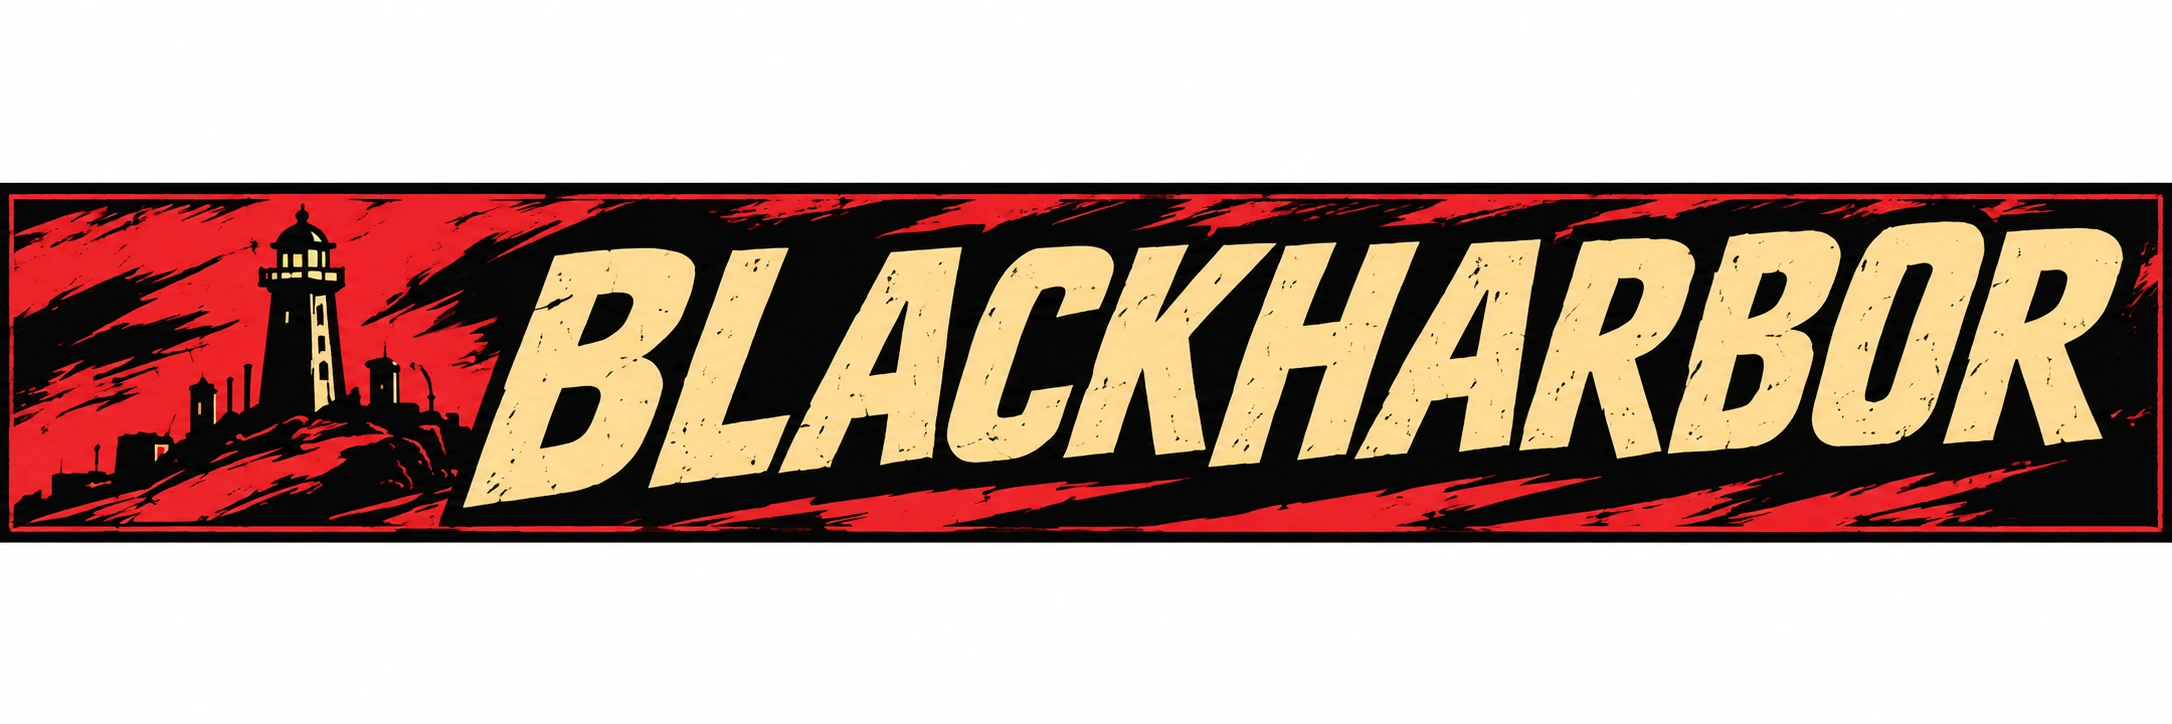
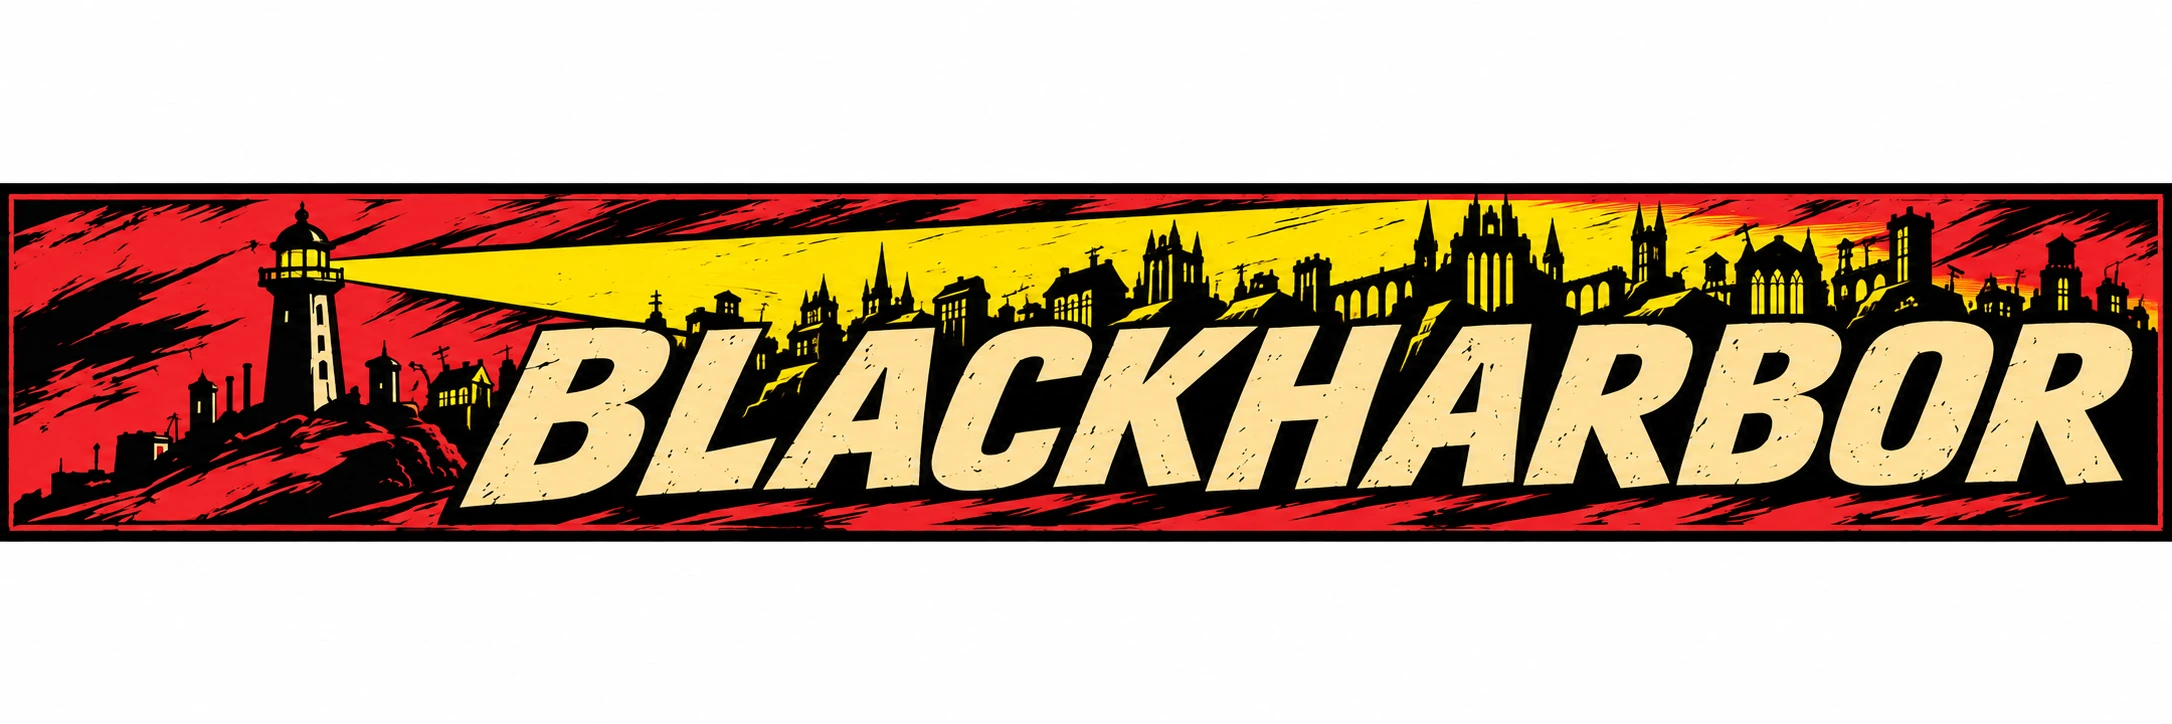
Illuminate a sinister city with the lighthouse masthead beam

Changed region(s): [[0.0, 0.2431, 1.0, 0.7597], [0.0, 0.2431, 0.1234, 0.3343]]

diff --git a/src/ui/render.js b/src/ui/render.js
@@ -6,7 +6,7 @@ function flip(){const b=document.querySelector('.board');if(!b){lastPos={};retur
     if(p&&(p[0]!==x||p[1]!==y)&&!noFlip.has(id)&&!RM){const d=Math.hypot(p[0]-x,p[1]-y);
       e.animate([{transform:`translate(${(p[0]-x)*c}px,${(p[1]-y)*c}px)`},{transform:`translate(${(p[0]-x)*c*.5}px,${(p[1]-y)*c*.5-c*.18}px)`,offset:.5},{transform:'none'}],{duration:Math.min(520,180+90*d),easing:'ease-in-out'})}});
   noFlip.clear();lastPos=now}
-function mast(){return `<header class="mast"><div class="bh-comic-brand"><h1><img src="assets/ui/comic-masthead.webp" alt="Blackharbor" width="2172" height="724" fetchpriority="high"></h1></div>
+function mast(){return `<header class="mast"><div class="bh-comic-brand"><h1><img src="assets/ui/comic-masthead.webp?v=lighthouse-city-beam" alt="Blackharbor" width="2172" height="724" fetchpriority="high"></h1></div>
   <div class="row mast-tools"><span class="issue" data-tip="kw:volume">Vol. ${S.vol} · Arc ${arcOf(Math.min(S.issue,MAX_ISSUE))} · #${Math.min(S.issue,MAX_ISSUE)}</span><button type="button" class="btn sm mast-save-btn" data-save-open aria-haspopup="dialog" aria-label="Open game menu: new campaign, difficulty, save and load">☰ Menu</button></div>
   <div class="res" style="flex-basis:100%">
     <span class="chip trust" data-tip="kw:trust" aria-label="Trust" title="Trust">${UI('trust')}${S.trust}</span><span class="chip" data-tip="kw:techres" aria-label="Tech" title="Tech">${UI('tech')}${S.tech}</span><span class="chip" data-tip="kw:intel" aria-label="Intel" title="Intel">${UI('intel')}${S.intel}</span>

diff --git a/index.html b/index.html
@@ -26,7 +26,7 @@
 <script src="src/investigation/villain-events.js"></script>
 <script src="src/investigation/investigation.js"></script>
 <script src="src/ui/icons.js?v=portrait-frames-2"></script>
-<script src="src/ui/render.js"></script>
+<script src="src/ui/render.js?v=lighthouse-city-beam"></script>
 <script src="src/hq/roster-view.js?v=sprite-portraits"></script>
 <script src="src/hq/hq-view.js?v=sprite-portraits"></script>
 <script src="src/investigation/view.js"></script>
